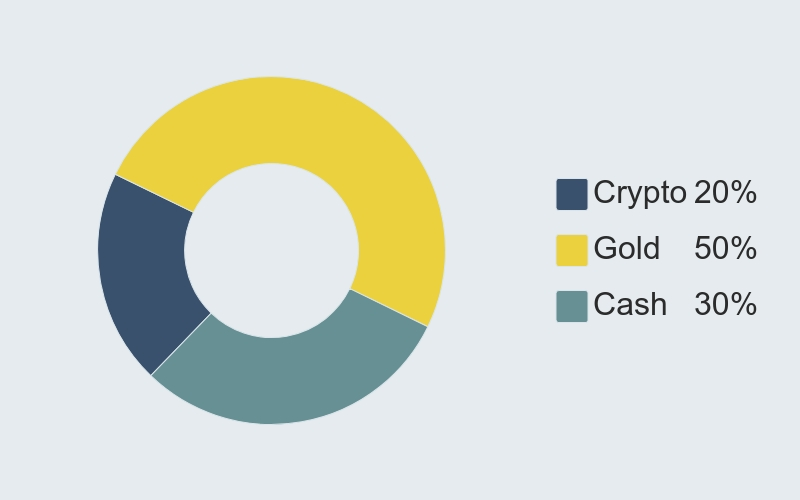
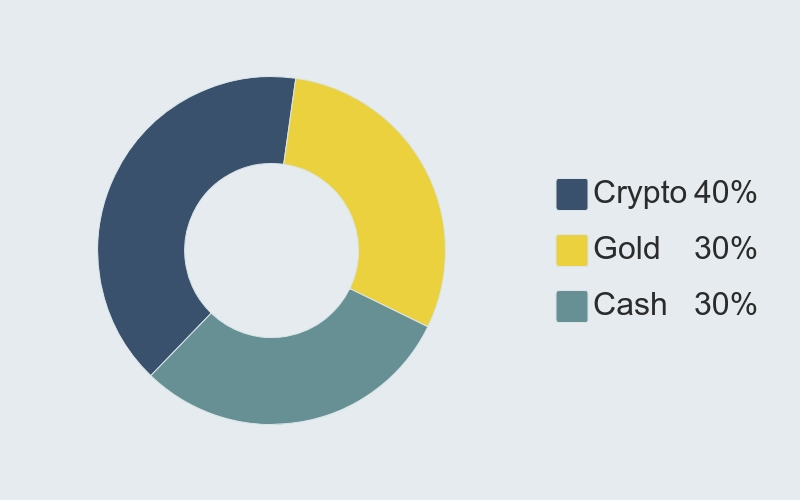
added defi portfolio

Changed region(s): [[0.125, 0.15, 0.375, 0.42], [0.8438, 0.36, 0.9062, 0.42], [0.875, 0.48, 0.9062, 0.51]]

diff --git a/src/views/PortfolioDetail.tsx b/src/views/PortfolioDetail.tsx
@@ -165,35 +165,37 @@ const PortfolioDetail = () => {
               </TableRow>
             </TableHead>
             <TableBody>
-              {Object.keys(tokens).map((token: string) => (
-                <TableRow key={token}>
-                  <TableCell>
-                    <div className={classes.tokenContainer}>
-                      <img
-                        className={classes.avatar}
-                        src={`/tokens/${token}.png`}
-                      />
-                      <Typography variant="body1">{token}</Typography>
-                    </div>
-                  </TableCell>
-                  <TableCell>
-                    {" "}
-                    <Link
-                      href={tokens[token as Token].link}
-                      target="_blank"
-                      className={classes.link}
-                    >
-                      {tokens[token as Token].name}
-                    </Link>
-                  </TableCell>
-                  <TableCell>{tokens[token as Token].assetClass}</TableCell>
-                  <TableCell align="right">
-                    {formatPercentage(
-                      portfolio.weights[token as keyof Weights]
-                    )}
-                  </TableCell>
-                </TableRow>
-              ))}
+              {Object.keys(tokens)
+                .filter((e) => portfolio.weights[e] > 0)
+                .map((token: string) => (
+                  <TableRow key={token}>
+                    <TableCell>
+                      <div className={classes.tokenContainer}>
+                        <img
+                          className={classes.avatar}
+                          src={`/tokens/${token}.png`}
+                        />
+                        <Typography variant="body1">{token}</Typography>
+                      </div>
+                    </TableCell>
+                    <TableCell>
+                      {" "}
+                      <Link
+                        href={tokens[token as Token].link}
+                        target="_blank"
+                        className={classes.link}
+                      >
+                        {tokens[token as Token].name}
+                      </Link>
+                    </TableCell>
+                    <TableCell>{tokens[token as Token].assetClass}</TableCell>
+                    <TableCell align="right">
+                      {formatPercentage(
+                        portfolio.weights[token as keyof Weights]
+                      )}
+                    </TableCell>
+                  </TableRow>
+                ))}
             </TableBody>
           </Table>
         </Container>

diff --git a/src/config/ethData.ts b/src/config/ethData.ts
@@ -12,6 +12,10 @@ export const contractsAddressesMap: ContractsAddressesMap = Object.freeze({
     PMGT: "0x7Ac060f34f52299f793E6B04B26cCCBEeB01a6dD",
     USDC: "0xe22da380ee6b445bb8273c81944adeb6e8450422",
     aUSDC: "0xe12afec5aa12cf614678f9bfeeb98ca9bb95b5b0",
+    AAVE: "0x7fc66500c84a76ad7e9c93437bfc5ac33e2ddae9",
+    UNI: "0x7fc66500c84a76ad7e9c93437bfc5ac33e2ddae9",
+    YFI: "0x7fc66500c84a76ad7e9c93437bfc5ac33e2ddae9",
+    REN: "0x7fc66500c84a76ad7e9c93437bfc5ac33e2ddae9",
     PortfolioBalancer: "0xd67F296EE273bc10bBE3F7E61d881820E7252a8B",
   },
   mainnet: {
@@ -20,6 +24,10 @@ export const contractsAddressesMap: ContractsAddressesMap = Object.freeze({
     PMGT: "0xAFFCDd96531bCd66faED95FC61e443D08F79eFEf",
     USDC: "0xa0b86991c6218b36c1d19d4a2e9eb0ce3606eb48",
     aUSDC: "0xBcca60bB61934080951369a648Fb03DF4F96263C",
+    AAVE: "0x7fc66500c84a76ad7e9c93437bfc5ac33e2ddae9",
+    UNI: "0x1f9840a85d5aF5bf1D1762F925BDADdC4201F984",
+    YFI: "0x0bc529c00C6401aEF6D220BE8C6Ea1667F6Ad93e",
+    REN: "0x0bc529c00C6401aEF6D220BE8C6Ea1667F6Ad93e",
     PortfolioBalancer: "0xd67F296EE273bc10bBE3F7E61d881820E7252a8B",
   },
 });
@@ -52,6 +60,34 @@ export const tokens: TokenDetailMap = Object.freeze({
     assetClass: "Cash",
     decimals: 6,
     coingeckoId: "aave-usdc",
+  },
+  UNI: {
+    name: "Uniswap",
+    link: "https://uniswap.org/",
+    assetClass: "Crypto",
+    decimals: 18,
+    coingeckoId: "uniswap",
+  },
+  AAVE: {
+    name: "Aave",
+    link: "https://aave.com/",
+    assetClass: "Crypto",
+    decimals: 18,
+    coingeckoId: "aave",
+  },
+  YFI: {
+    name: "Yearn Finance",
+    link: "https://yearn.finance/",
+    assetClass: "Crypto",
+    decimals: 18,
+    coingeckoId: "yearn-finance",
+  },
+  REN: {
+    name: "Ren Project",
+    link: "https://renproject.io/",
+    assetClass: "Crypto",
+    decimals: 18,
+    coingeckoId: "republic-protocol",
   },
 });
 

diff --git a/src/sharedTypes/eth.types.ts b/src/sharedTypes/eth.types.ts
@@ -1,5 +1,13 @@
 export type EthereumNetwork = "kovan" | "mainnet";
-export type Token = "WBTC" | "PMGT" | "aUSDC" | "ETH";
+export type Token =
+  | "WBTC"
+  | "PMGT"
+  | "aUSDC"
+  | "ETH"
+  | "UNI"
+  | "AAVE"
+  | "YFI"
+  | "REN";
 
 export type ContractsAddressesMap = {
   [key in EthereumNetwork]: {
@@ -8,6 +16,10 @@ export type ContractsAddressesMap = {
     USDC: string;
     PMGT: string;
     aUSDC: string;
+    UNI: string;
+    AAVE: string;
+    YFI: string;
+    REN: string;
     PortfolioBalancer: string;
   };
 };

diff --git a/src/config/apis.ts b/src/config/apis.ts
@@ -1,5 +1,5 @@
 export const priceUrl = "https://api.coingecko.com/api/v3/";
 export const backendUrl =
-  "https://us-central1-fabled-plating-300422.cloudfunctions.net/";
+  "https://us-central1-cantillon-dev.cloudfunctions.net/";
 export const gasPriceUrl =
   "https://www.gasnow.org/api/v3/gas/price?utm_source=ethereum";
